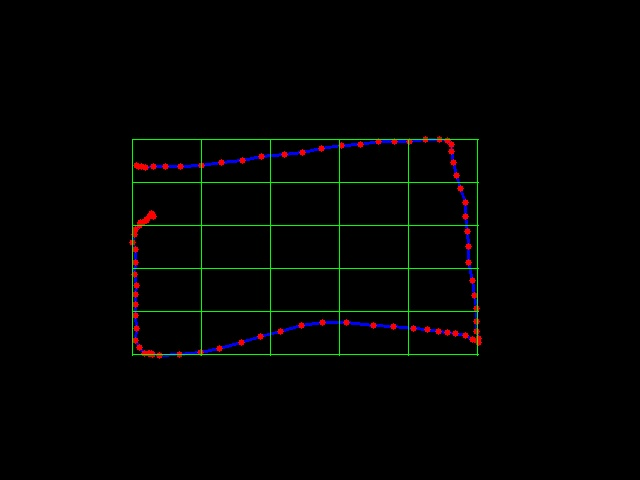
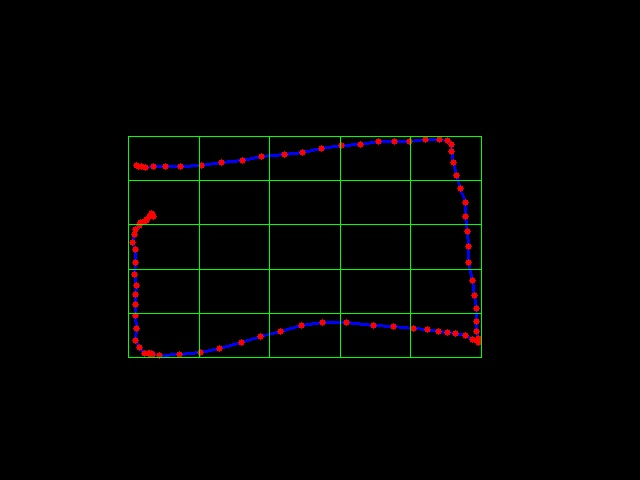
some fixes

diff --git a/lib/gesture.py b/lib/gesture.py
@@ -1,5 +1,5 @@
-GRID_NUM=5
-ALLOWANCE=0.05 #5%
+import cv
+from config import GRID_NUM,ALLOWANCE,MIN_GRID_SIZE
 
 all_gestures={}
 #reads gestures from JSON file
@@ -14,7 +14,20 @@ def gesture_extract(points):
     X=[ point[0] for point in points ]
     Y=[ point[1] for point in points ]
     #cluster size with allowance
-    cluster_size=((max(X)-min(X)+2*ALLOWANCE)/GRID_NUM,(max(Y)-min(Y)+2*ALLOWANCE)/GRID_NUM)
+    cluster_size=((max(X)-min(X))/(GRID_NUM-2*ALLOWANCE),(max(Y)-min(Y))/(GRID_NUM-2*ALLOWANCE))
+
+    #If cluster size is too small then straight line
+    if cluster_size[0]<MIN_GRID_SIZE:
+        if points[0][1]<point[len(point)-1][1]:
+            return ["VTB"]
+        else:
+            return ["VBT"]
+    if cluster_size[1]<MIN_GRID_SIZE:
+        if points[0][0]<points[len(point)-1][0]:
+            return ["SLR"]
+        else:
+            return ["SRL"]
+
     params={'offset':(min(X),min(Y)),'size':cluster_size}
     old_cluster=find_cluster(points[0],params)
     for point in points[1:]:
@@ -57,3 +70,31 @@ def search_gesture(points):
         if gestureEXTRACT==all_gestures[gesture]:
             return gesture
 
+#Returns an image after analysis
+def analyzer(points):
+    j=points
+    X=[ x[0] for x in j ]
+    Y=[ x[1] for x in j ]
+    maxX,maxY,minX,minY=max(X),max(Y),min(X),min(Y)
+    img=cv.CreateImage((640,480),8,3)
+    old=j[0]
+    for point in j:
+        cv.Line(img,old,point,(255,0,0),2)
+        old=point
+
+    for point in j:
+        cv.Line(img,point,point,(0,0,255),5)
+
+    cluster_size=((max(X)-min(X))/(GRID_NUM-2*ALLOWANCE),(max(Y)-min(Y))/(GRID_NUM-2*ALLOWANCE))
+
+    gridX=minX-ALLOWANCE*cluster_size[0]
+    while gridX<=minX+GRID_NUM*cluster_size[0]:
+        cv.Line(img,(int(gridX),int(minY-(ALLOWANCE*cluster_size[1]))),(int(gridX),int(maxY+(ALLOWANCE*cluster_size[1]))),(0,255,0),1)
+        gridX+=cluster_size[0]
+
+    gridY=minY-(ALLOWANCE*cluster_size[1])
+    while gridY<=minY+GRID_NUM*cluster_size[1]:
+        cv.Line(img,(int(minX-ALLOWANCE*cluster_size[0]),int(gridY)),(int(maxX+ALLOWANCE*cluster_size[0]),int(gridY)),(0,255,0),1)
+        gridY+=cluster_size[1]
+
+    return img,gesture_extract(points)

diff --git a/settings.py b/settings.py
@@ -1,7 +1,96 @@
-#!/usr/bin/python
 import gtk
-
-
+import cv
+from lib import gesture
+k=[
+(136, 165),
+(138, 166),
+(141, 166),
+(145, 167),
+(153, 166),
+(165, 166),
+(180, 166),
+(201, 165),
+(221, 162),
+(242, 160),
+(261, 156),
+(284, 154),
+(302, 152),
+(321, 148),
+(341, 145),
+(360, 144),
+(378, 141),
+(394, 141),
+(409, 141),
+(425, 139),
+(439, 139),
+(447, 140),
+(451, 144),
+(451, 151),
+(453, 162),
+(456, 175),
+(460, 188),
+(465, 202),
+(465, 216),
+(467, 231),
+(468, 246),
+(468, 262),
+(472, 280),
+(474, 295),
+(476, 308),
+(476, 321),
+(476, 331),
+(478, 338),
+(478, 342),
+(476, 340),
+(472, 339),
+(465, 335),
+(455, 333),
+(447, 332),
+(438, 331),
+(427, 329),
+(413, 328),
+(393, 326),
+(373, 325),
+(346, 322),
+(322, 322),
+(301, 325),
+(280, 331),
+(260, 336),
+(241, 342),
+(219, 348),
+(200, 352),
+(179, 354),
+(159, 355),
+(152, 354),
+(149, 353),
+(151, 353),
+(148, 353),
+(144, 353),
+(139, 347),
+(135, 340),
+(136, 328),
+(135, 315),
+(135, 304),
+(135, 294),
+(136, 285),
+(134, 274),
+(135, 262),
+(135, 249),
+(132, 242),
+(134, 234),
+(135, 229),
+(139, 225),
+(140, 222),
+(142, 222),
+(144, 221),
+(146, 220),
+(146, 219),
+(149, 216),
+(152, 214),
+(151, 214),
+(151, 213),
+(153, 216)
+]
 class PyApp(gtk.Window):
 
     def __init__(self):
@@ -14,8 +103,11 @@ class PyApp(gtk.Window):
 
         table = gtk.Table(8, 4, False)
         table.set_col_spacings(3)
+        #TODO Take points from JSON
+        img,sequence=gesture.analyzer(k)
+        cv.SaveImage("res/jarvis.jpg",img)
 
-        self.sequence = gtk.Label("Gesture State Transition: SLR->VTB->SRL->VBT")
+        self.sequence = gtk.Label("Gesture State Transition: "+"->".join(sequence))
 
         halign = gtk.Alignment(0, 0, 0, 0)
         halign.add(self.sequence)
@@ -40,12 +132,11 @@ class PyApp(gtk.Window):
         table.set_row_spacing(1, 3)
         table.attach(valign, 3, 4, 2, 3, gtk.FILL,
             gtk.FILL | gtk.EXPAND, 1, 1)
-            
+
         self.add(table)
 
         self.connect("destroy", gtk.main_quit)
         self.show_all()
-
 
 PyApp()
 gtk.main()

diff --git a/lib/analyze.py b/lib/analyze.py
@@ -11,6 +11,20 @@ j=[
 (221, 162),
 (242, 160),
 (261, 156),
+(284, 154)
+]
+k=[
+(136, 165),
+(138, 166),
+(141, 166),
+(145, 167),
+(153, 166),
+(165, 166),
+(180, 166),
+(201, 165),
+(221, 162),
+(242, 160),
+(261, 156),
 (284, 154),
 (302, 152),
 (321, 148),
@@ -102,14 +116,14 @@ for point in j:
 for point in j:
 	cv.Line(img,point,point,(0,0,255),5)
 
-GRID_SIZE=5
-gridX=minX-int((maxX-minX)*(0.05)/GRID_SIZE)
+GRID_NUM=5
+gridX=minX-int((maxX-minX)*(0.05)/GRID_NUM)
 while gridX<=maxX*(1.1):
 	cv.Line(img,(gridX,minY),(gridX,maxY),(0,255,0),1)
-	gridX+=int((maxX-minX)*(1.05)/GRID_SIZE)
-gridY=minY-int((maxY-minY)*(0.05)/GRID_SIZE)
+	gridX+=int((maxX-minX)*(1.05)/GRID_NUM)
+gridY=minY-int((maxY-minY)*(0.05)/GRID_NUM)
 while gridY<=maxY*(1.1):
 	cv.Line(img,(minX,gridY),(maxX,gridY),(0,255,0),1)
-	gridY+=int((maxY-minY)*(1.05)/GRID_SIZE)
+	gridY+=int((maxY-minY)*(1.05)/GRID_NUM)
 cv.ShowImage("jarvis",img)
 cv.WaitKey(0)

diff --git a/config.py b/config.py
@@ -7,7 +7,7 @@ Configuration file of JARVIS
       #  ######  #####   #    #     #         #
  #    #  #    #  #   #    #  #      #    #    #
   ####   #    #  #    #    ##       #     ####
-  
+
 """
 
 TRACKER_COLOR={'MIN':[20,100,100],'MAX':[30,255,255]}
@@ -18,3 +18,11 @@ TRACK=False
 	Set ANALYZE if you want to keep track of all the data due to gestures. This will however make the system very slow.
 """
 ANALYZE=False
+
+"""
+    ADVANCED CONFIGURATION. DONT EDIT IT IF YOU ARE NOT SURE
+"""
+#Gesture settings
+GRID_NUM=5
+ALLOWANCE=0.05 #5% of grid size
+MIN_GRID_SIZE=25

diff --git a/test.py b/test.py
@@ -1,5 +1,5 @@
 #THIS FILE WAS MADE TO CHECK THE WORKING OF GESTURE EXTRACTION
-from gesture import *
+from lib.gesture import *
 j=[
 (136, 165),
 (138, 166),
@@ -90,4 +90,19 @@ j=[
 (151, 213),
 (153, 216)
 ]
+k=[
+(136, 165),
+(138, 166),
+(141, 166),
+(145, 167),
+(153, 166),
+(165, 166),
+(180, 166),
+(201, 165),
+(221, 162),
+(242, 160),
+(261, 156),
+(284, 154)
+]
+
 print gesture_extract(j)
